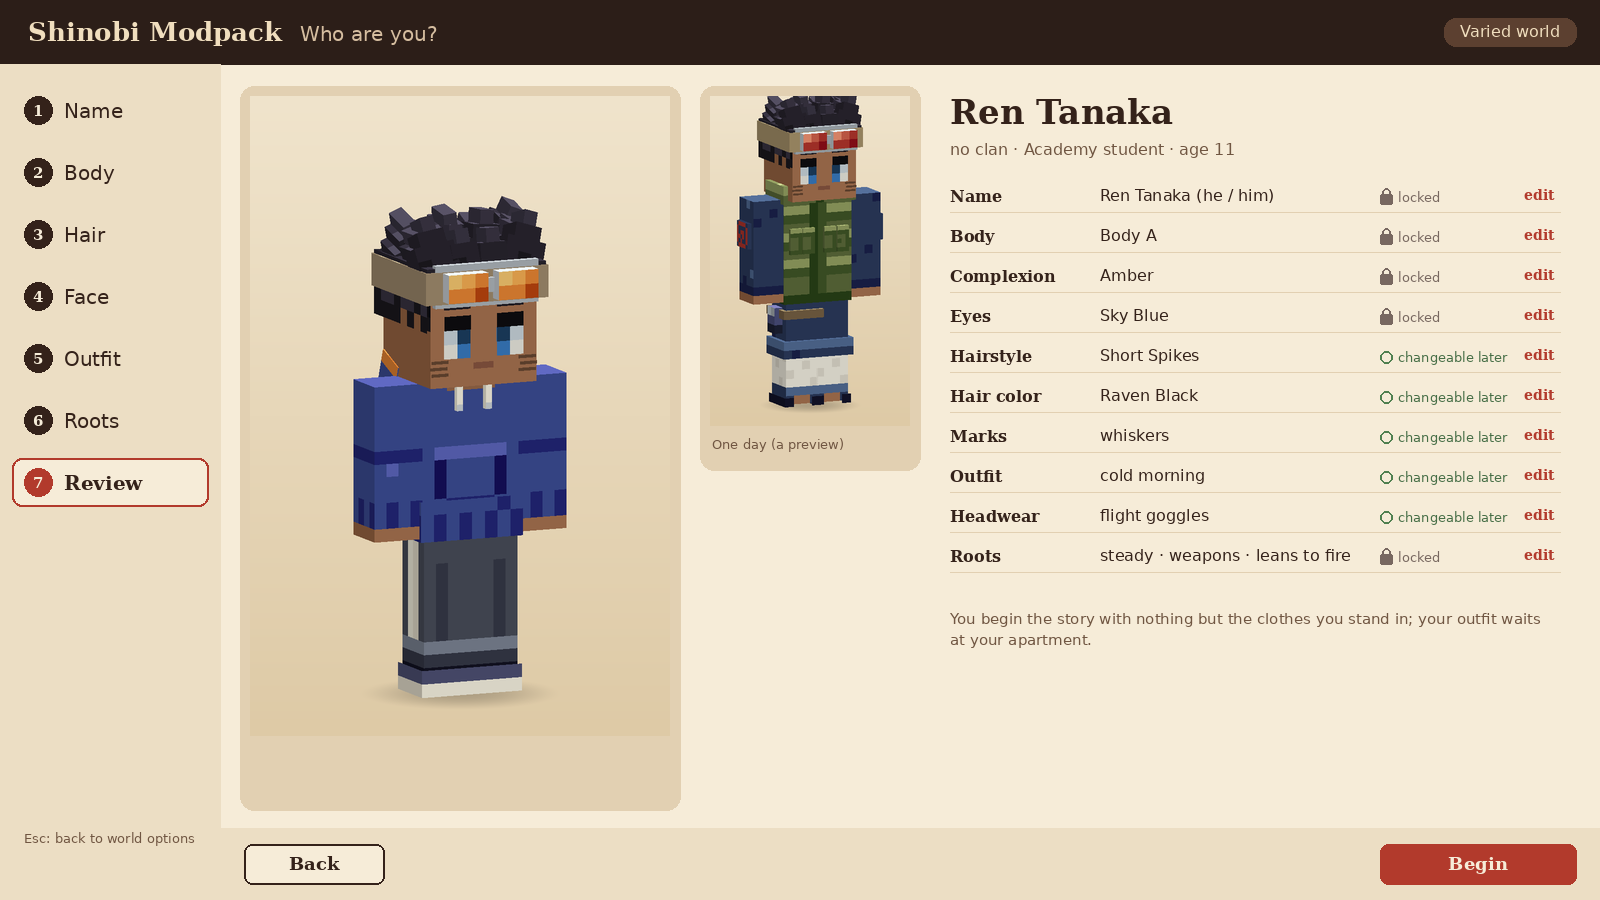
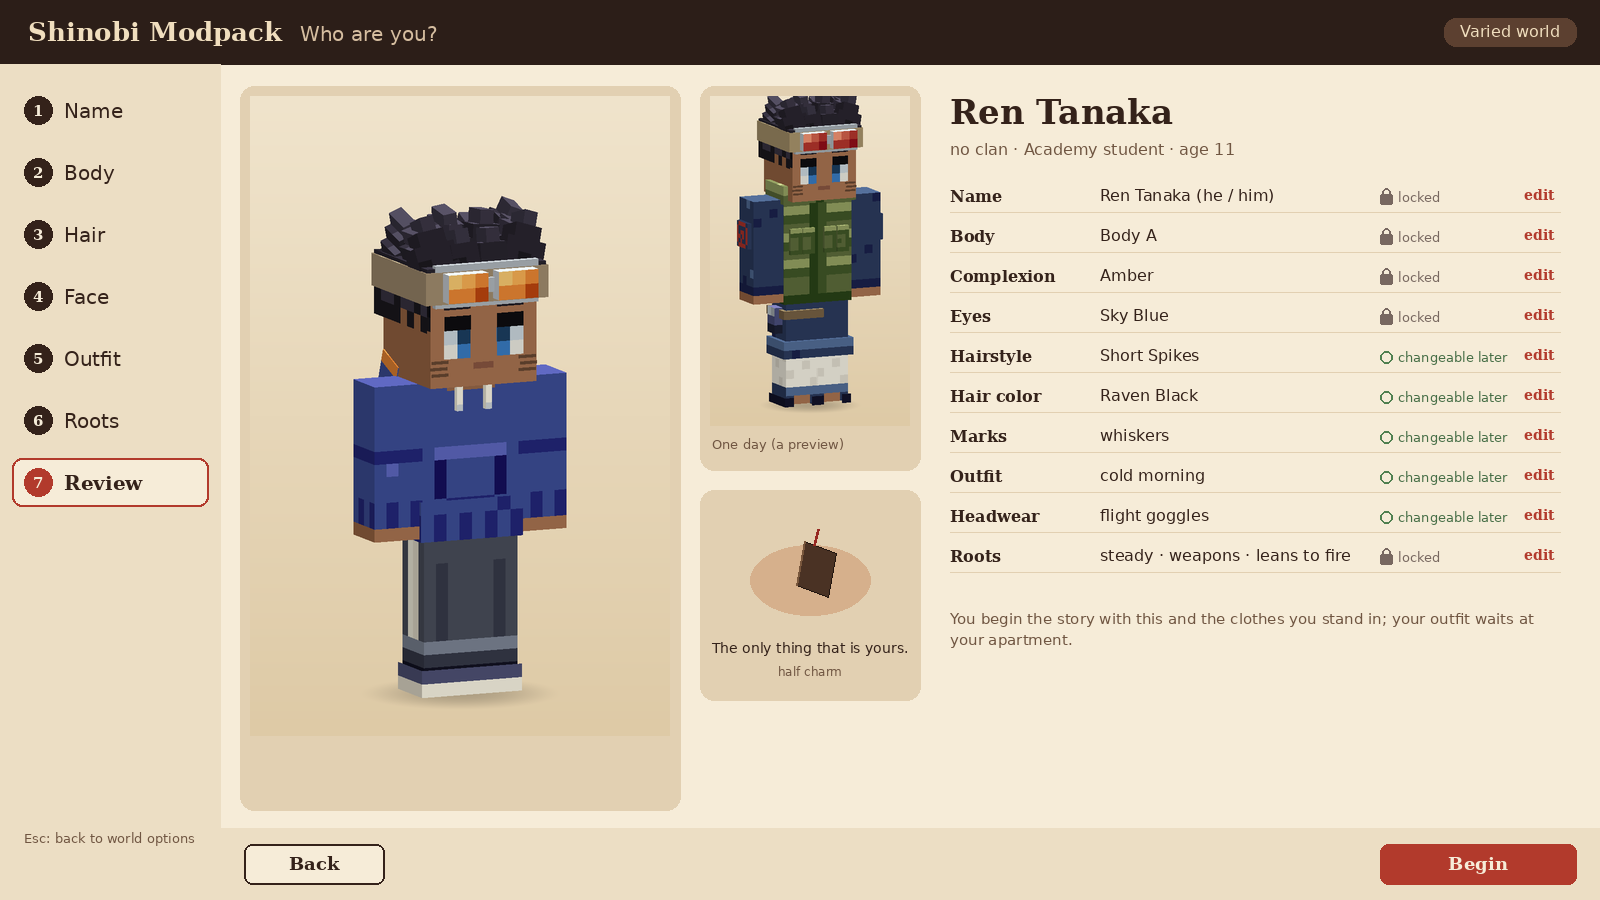
Character creation: the clan registry's rename of the last name, the starting key item on the review screen, role-token forms for the player

Changed region(s): [[0.4375, 0.5289, 0.6875, 0.7778], [0.7188, 0.6844, 0.9688, 0.7156]]

diff --git a/village/look/src/main/java/dev/shinobi/village/look/Names.java b/village/look/src/main/java/dev/shinobi/village/look/Names.java
@@ -6,9 +6,9 @@ import java.util.List;
 import java.util.Map;
 
 /**
- * The player's name. The given name is typed in the creator; the family name is the clan's for the clan-born, and for
- * the clanless an ordinary family name from population.json's pool (picked, or the one rolled on the save's
- * {@code names} stream). Text never contains the name: it uses the {@code {player}} tokens.
+ * The player's name, first then last. The first (given) name is typed in the creator; the last (family) name is an
+ * ordinary family name from population.json's pool (picked, or the one rolled on the save's {@code names} stream), or
+ * the clan's for a clan-born origin if that option returns. Text never contains the name: it uses the tokens.
  */
 public final class Names {
     /** A player's name: {@code given} as typed, {@code family} the clan's or the pool's. */
@@ -50,6 +50,16 @@ public final class Names {
     }
 
     /**
+     * The clan registry's offer (founding a clan from Chunin, or joining one by invitation or marriage): take the
+     * clan's name as your family name, or keep yours. Nothing else changes the family name; the given name never
+     * changes.
+     */
+    public static PlayerName atRegistry(PlayerName name, String clanName, boolean takeClanName) {
+        if (clanName == null || clanName.isBlank()) throw new IllegalArgumentException("the registry needs a clan name");
+        return takeClanName ? new PlayerName(name.given(), clanName) : name;
+    }
+
+    /**
      * The player's tokens, as dialogue and quest text use them: {@code {player}} the given name, {@code {player_family}},
      * {@code {player_full}}, and {@code {player_clan}} (the clan's name, empty for the clanless).
      */
@@ -59,6 +69,10 @@ public final class Names {
         m.put("player_family", name.family());
         m.put("player_full", name.full());
         m.put("player_clan", clanName == null ? "" : clanName);
+        // The role-token forms the story's text uses for every character ({name:<role>}, {given:<role>}, {family:<role>}).
+        m.put("name:player", name.full());
+        m.put("given:player", name.given());
+        m.put("family:player", name.family());
         return m;
     }
 

diff --git a/tools/creator/mockups.py b/tools/creator/mockups.py
@@ -272,7 +272,7 @@ def name_screen(world, data):
     d.line((cx, 180, cx, 208), fill=INK, width=2)
     d.text((250, 226), "2 to 16 letters, any script; spaces, apostrophes and hyphens are fine.", font=font(14), fill=SOFT)
     scr.lock(250, 250, "first name: locked after creation")
-    scr.heading(250, 296, "Last name", "An ordinary family name, on your papers. Pick one or roll.")
+    scr.heading(250, 296, "Last name", "The family name you remember: an ordinary one. Pick one or roll.")
     d.rounded_rectangle((250, 366, 750, 414), 8, fill=(255, 250, 240), outline=INK, width=2)
     d.text((266, 377), "Tanaka", font=font(22), fill=INK)
     d.text((712, 375), "v", font=font(22, True), fill=INK)
@@ -522,7 +522,17 @@ def review_screen(world, data, origin="clanless"):
         else:
             scr.changeable(x + 430, y + 8, "changeable later")
         d.text((SW - 76, y + 6), "edit", font=font(14, True), fill=ACCENT)
-    paragraph(d, x, 610, "You begin the story with nothing but the clothes you stand in; your outfit waits at your apartment.",
+    # The starting key item, in hand: a small charred wooden charm (drawn as an icon; the item's model is the items session's).
+    d.rounded_rectangle((700, 490, 920, 700), 14, fill=PANEL2)
+    cx, cy = 810, 575
+    d.ellipse((cx - 60, cy - 30, cx + 60, cy + 40), fill=(214, 176, 140))           # an open palm
+    d.polygon([(cx - 6, cy - 34), (cx + 26, cy - 22), (cx + 18, cy + 22), (cx - 14, cy + 10)], fill=(74, 50, 36), outline=(34, 22, 16))
+    d.line((cx - 6, cy - 34, cx - 14, cy + 10), fill=(120, 86, 60), width=2)       # the broken edge of half a pair
+    d.line((cx + 8, cy - 46, cx + 4, cy - 30), fill=(150, 40, 34), width=3)        # its cord
+    tw = d.textlength("The only thing that is yours.", font=font(14))
+    d.text((810 - tw / 2, 640), "The only thing that is yours.", font=font(14), fill=INK)
+    d.text((810 - d.textlength("half charm", font=font(12)) / 2, 664), "half charm", font=font(12), fill=SOFT)
+    paragraph(d, x, 610, "You begin the story with this and the clothes you stand in; your outfit waits at your apartment.",
               600, 15, SOFT)
     scr.footer("Begin", dice=False)
     scr.save("7_review")

diff --git a/village/look/src/test/java/dev/shinobi/village/look/NamesTest.java b/village/look/src/test/java/dev/shinobi/village/look/NamesTest.java
@@ -45,6 +45,17 @@ class NamesTest {
     }
 
     @Test
+    void theClanRegistryOffersTheClansNameOrYourOwn() {
+        var name = new Names.PlayerName("Kaede", "Tanaka");
+        assertEquals(new Names.PlayerName("Kaede", "Nara"), Names.atRegistry(name, "Nara", true));
+        assertEquals(name, Names.atRegistry(name, "Nara", false));
+        assertThrows(IllegalArgumentException.class, () -> Names.atRegistry(name, " ", true));
+        var after = Names.tokens(Names.atRegistry(name, "Nara", true), "Nara");
+        assertEquals("Nara", after.get("family:player"));
+        assertEquals("Kaede Nara", after.get("name:player"));
+    }
+
+    @Test
     void tokensResolve() {
         var t = Names.tokens(new Names.PlayerName("Kaede", "Tanaka"), null);
         assertEquals("Kaede", t.get("player"));

diff --git a/tools/creator/creator.py b/tools/creator/creator.py
@@ -293,6 +293,7 @@ class World:
             "grows_into": {k: v for k, v in r["grows_into"].items() if not k.startswith("_")},
             "stage_hair": {k: v for k, v in r["stage_hair"].items() if not k.startswith("_")},
             "prologue_look": {k: v for k, v in r["prologue_look"].items() if not k.startswith("_")},
+            "starting_key_item": {k: v for k, v in r["starting_key_item"].items() if not k.startswith("_")},
             "creatable": creatable,
             "pronouns": {k: v for k, v in r["pronouns"].items() if not k.startswith("_")},
             "roots": {k: v for k, v in r["roots"].items() if not k.startswith("_")},

diff --git a/CHARACTER_CREATION.md b/CHARACTER_CREATION.md
@@ -28,7 +28,7 @@ python3 tools/creator/creator.py --check      # validate, and fail if the compil
 python3 tools/creator/creator.py --samples    # sample players and the age-stage sheet
 python3 tools/creator/creator.py --mockups    # the screens below
 python3 tools/creator/creator.py --roll 42    # what Roll a life suggests for save seed 42
-./gradlew :village:look:test                  # 30 tests (JDK 25)
+./gradlew :village:look:test                  # 31 tests (JDK 25)
 ```
 
 ## Contents
@@ -83,7 +83,8 @@ quiet title card that asks *Who are you?*, and the creator opens over it; when y
 prologue's first scene plays. The creator itself says nothing about the story: it never explains
 why you are where you are, and it shows no place, person or symbol from the prologue.
 
-- **What you wear in the prologue:** your own hair, eyes and marks in plain, worn clothes
+- **What you carry and wear in the prologue:** the one key item the creator gives you
+  ([§6](#6-starting-stats-and-kit)), and your own hair, eyes and marks in plain, worn clothes
   (`prologue_look`: a striped sweater and patched trousers in a dusty palette, unisex). The outfit
   you chose is waiting at your apartment in Ch 1, with the rest of your start
   ([§6](#6-starting-stats-and-kit)). The review screen says so.
@@ -108,8 +109,8 @@ you later.
   apostrophes and hyphens; it must start with a letter. Braces, digits and symbols are refused, so
   token syntax can never enter a name (`Names.validateGiven`). It is yours alone: never rolled, and
   not checked against the name pools (a player may share a first name with a resident).
-- **Last name:** one of the 50 ordinary family names of `population.json` (*an ordinary family
-  name, on your papers*), picked from the list or rolled; leaving it unpicked takes the one the
+- **Last name:** one of the 50 ordinary family names of `population.json` (*the family name you
+  remember*), picked from the list or rolled; leaving it unpicked takes the one the
   save's `names` stream rolls. Only that pool is offered, so a last name never matches a clan, and a
   *no clan* tag sits beside the field.
 - **Name order:** first name, then last name, everywhere: *Kaede Tanaka*.
@@ -180,7 +181,9 @@ the pair's seeded spark plus their warmth and openness, [BONDS.md §2](BONDS.md#
 ![Review](docs/renders/creator/screen_7_review.png)
 
 Your character large, a small *one day* adult preview, and every choice in a list with a lock or a
-*changeable later* mark and an *edit* link back to its step. Confirming sends the choice to the
+*changeable later* mark and an *edit* link back to its step. Below the preview, your starting key
+item rests in an open hand: a small charred wooden charm, half of a matched pair, with the line
+*The only thing that is yours.* (`starting_key_item`; the story session's item `half_charm`). Confirming sends the choice to the
 server, which checks it against the same rules (`CreatorRules.validateCreation`); the client only
 ever offers allowed choices, so a refusal means a mismatched pack. Then the prologue begins.
 
@@ -218,7 +221,8 @@ Every player starts with the same numbers; Roots add only small leanings. From t
 | Taijutsu | Academy basics | Combat |
 | Knack | +5% to the chosen kind, and its practice item | Combat, Items |
 | Techniques, nature | None; Clone, Transformation and Substitution are learned in Beta 1; the first nature at the Genin ceremony | Combat |
-| In the prologue | Nothing but the prologue clothes | Items |
+| Key item, from the creator | `half_charm`: a small charred wooden charm, half of a matched pair; cannot be dropped, sold or stored away | Story, Items |
+| In the prologue | The charm and the prologue clothes | Items |
 | At the apartment, Ch 1 | Your chosen outfit (in the wardrobe chest), a futon or bed, a chest, the apartment key; the stipend's first 30 ryo | Items, Life |
 | From the instructor, Ch 2 | Practice kunai and practice shuriken | Items |
 
@@ -227,7 +231,7 @@ Every player starts with the same numbers; Roots add only small leanings. From t
 | Choice | After creation | Where | Cost |
 |---|---|---|---|
 | First name | Locked | — | — |
-| Last name | Locked; a life event the story or Shinobi Life allows may change it (marriage, joining or founding a clan) | Life and Core glue | — |
+| Last name | Locked, until the **clan registry** in the Hokage Residence: founding a clan (from Chunin), or joining one by invitation or marriage, offers *take the clan's name, or keep yours* (`Names.atRegistry`). Nothing earlier changes it | The registry action (`found_clan`, joining) | — |
 | Pronouns | Changeable | The settings screen | free |
 | Body, complexion, eye shape, eye color | Locked | — | — |
 | Brows | Changeable | Barber | free with a haircut |
@@ -303,6 +307,9 @@ Text never contains your name. The creator fills these tokens (`Names.tokens`), 
 | `{player_clan}` | Your clan's name; empty while you have none, so lines that need it are skipped | (empty) |
 | `{player_rank}` | Your title (dialogue's resolver, from your rank) | Academy student |
 | `{they:player}`, `{them:player}`, `{their:player}` | Your pronouns, for lines about you | they, them, their |
+| `{name:player}`, `{given:player}`, `{family:player}` | The role-token forms the story uses for every character, for you | Kaede Tanaka, Kaede, Tanaka |
+
+A change of last name at the clan registry flows into every token at once.
 
 Proposed for the dialogue session, which owns the pools: friends, classmates and the squad use
 `{player}`; adults and shopkeepers `{player_family}` with a polite suffix, or *the Academy kid*;
@@ -326,7 +333,7 @@ wardrobe, so a new Academy outfit or collection hairstyle appears in the creator
 | `open` | What everyone may pick: every collection's hair, the open hair and eye colors and marks, the Academy collection's Academy outfits, the open headwear |
 | `never_at_creation`, `reserved` | Ids no one picks (with the reason), and shared ids that belong to one clan |
 | `stage_marks`, `stage_hair` | Marks and styles that wait for a later stage |
-| `prologue_look` | The prologue's clothes |
+| `prologue_look`, `starting_key_item` | The prologue's clothes; the one key item shown on the review screen |
 | `changes`, `time_skip_restyle` | Where each choice can change, and its cost |
 | `grows_into` | The mirror's suggested grown styles |
 | `default_overrides` | Opening looks that differ from the computed ones |
@@ -408,17 +415,18 @@ JUnit 5, release 25), the way `life/bonds` is built. The Village mod depends on 
 | `AgeStage` | The three stages: scale, head scale, eye height, the stage after N time skips |
 | `Look` | The player's look, with the save's map form |
 | `CreatorRules` | Reads the compiled file; the creatable origins; each origin's choices per stage; opening looks; Roots and pronouns; the server's `validateCreation` |
-| `Names` | First-name rules, the last name (the pool or the `names` stream), the `{player}` tokens |
+| `Names` | First-name rules, the last name (the pool or the `names` stream), the clan registry's rename, the tokens |
 | `LifeRoll` | Roll a life (look and roots) on the `creator` stream, the same numbers as `creator.py` |
 | `Restyle` | Venues (barber, home, settings, the mirror), costs, checked changes |
 | `GrowUp` | Carrying a look into the next stage |
 | `Seeds`, `Json` | The save seed's streams (the same as `life/bonds`; Core's `SaveSeed` later); a small JSON reader |
 
-Tests (30): the stages agree with the compiled file; only the clanless can be created and no clan
+Tests (31): the stages agree with the compiled file; only the clanless can be created and no clan
 hairstyle reaches the player; Roots and pronoun options and refusals; every opening look and every
 Roll a life of 400 seeds passes the server's check; Java and Python rolls agree (look and roots);
 clan pieces stay with their clan; the Byakugan is locked for the Hyuga and the Sharingan never
-offered; conferred marks and elders' styles wait; no protector before Genin; names and tokens; the
+offered; conferred marks and elders' styles wait; no protector before Genin; names, tokens and the
+registry's rename; the
 barber, the home, the settings and the mirror; every opening look grows into an allowed teen and
 adult look.
 
@@ -440,7 +448,9 @@ adult look.
 
 ## 14. Open questions
 
-For the owner:
+For the owner. Until answered, the current defaults stand, and each is one setting to change:
+family names from the pool only; body labels *Body A* and *Body B*; whisker marks open to everyone;
+Roll a life in Varied only.
 
 1. **Roll a life in Classic.** Today Classic has row dice but no Roll a life. Should Classic have
    it too (still seeded)?
@@ -455,8 +465,7 @@ Asked of the sibling sessions (owners decide):
 
 - **Combat:** the knack's +5% and practice item, and the affinity bonus at the ceremony, as ids in
   its data.
-- **Items:** the Ch 1 apartment kit, the practice tools and the knack's practice items as ids in the
-  items registry; the wardrobe chest as an item or a furniture block.
+- **Items:** `half_charm` (an undroppable key item), the Ch 1 apartment kit, the practice tools and
+  the knack's practice items as ids in the items registry; the wardrobe chest as an item or a furniture block.
 - **Dialogue:** the tokens and the address rules (§10), `player.temperament` as a context tag.
-- **Story:** whether the story allows a later change of last name, and when.
 - **Map:** a barber's chair (the bath house or beside the tailor).
